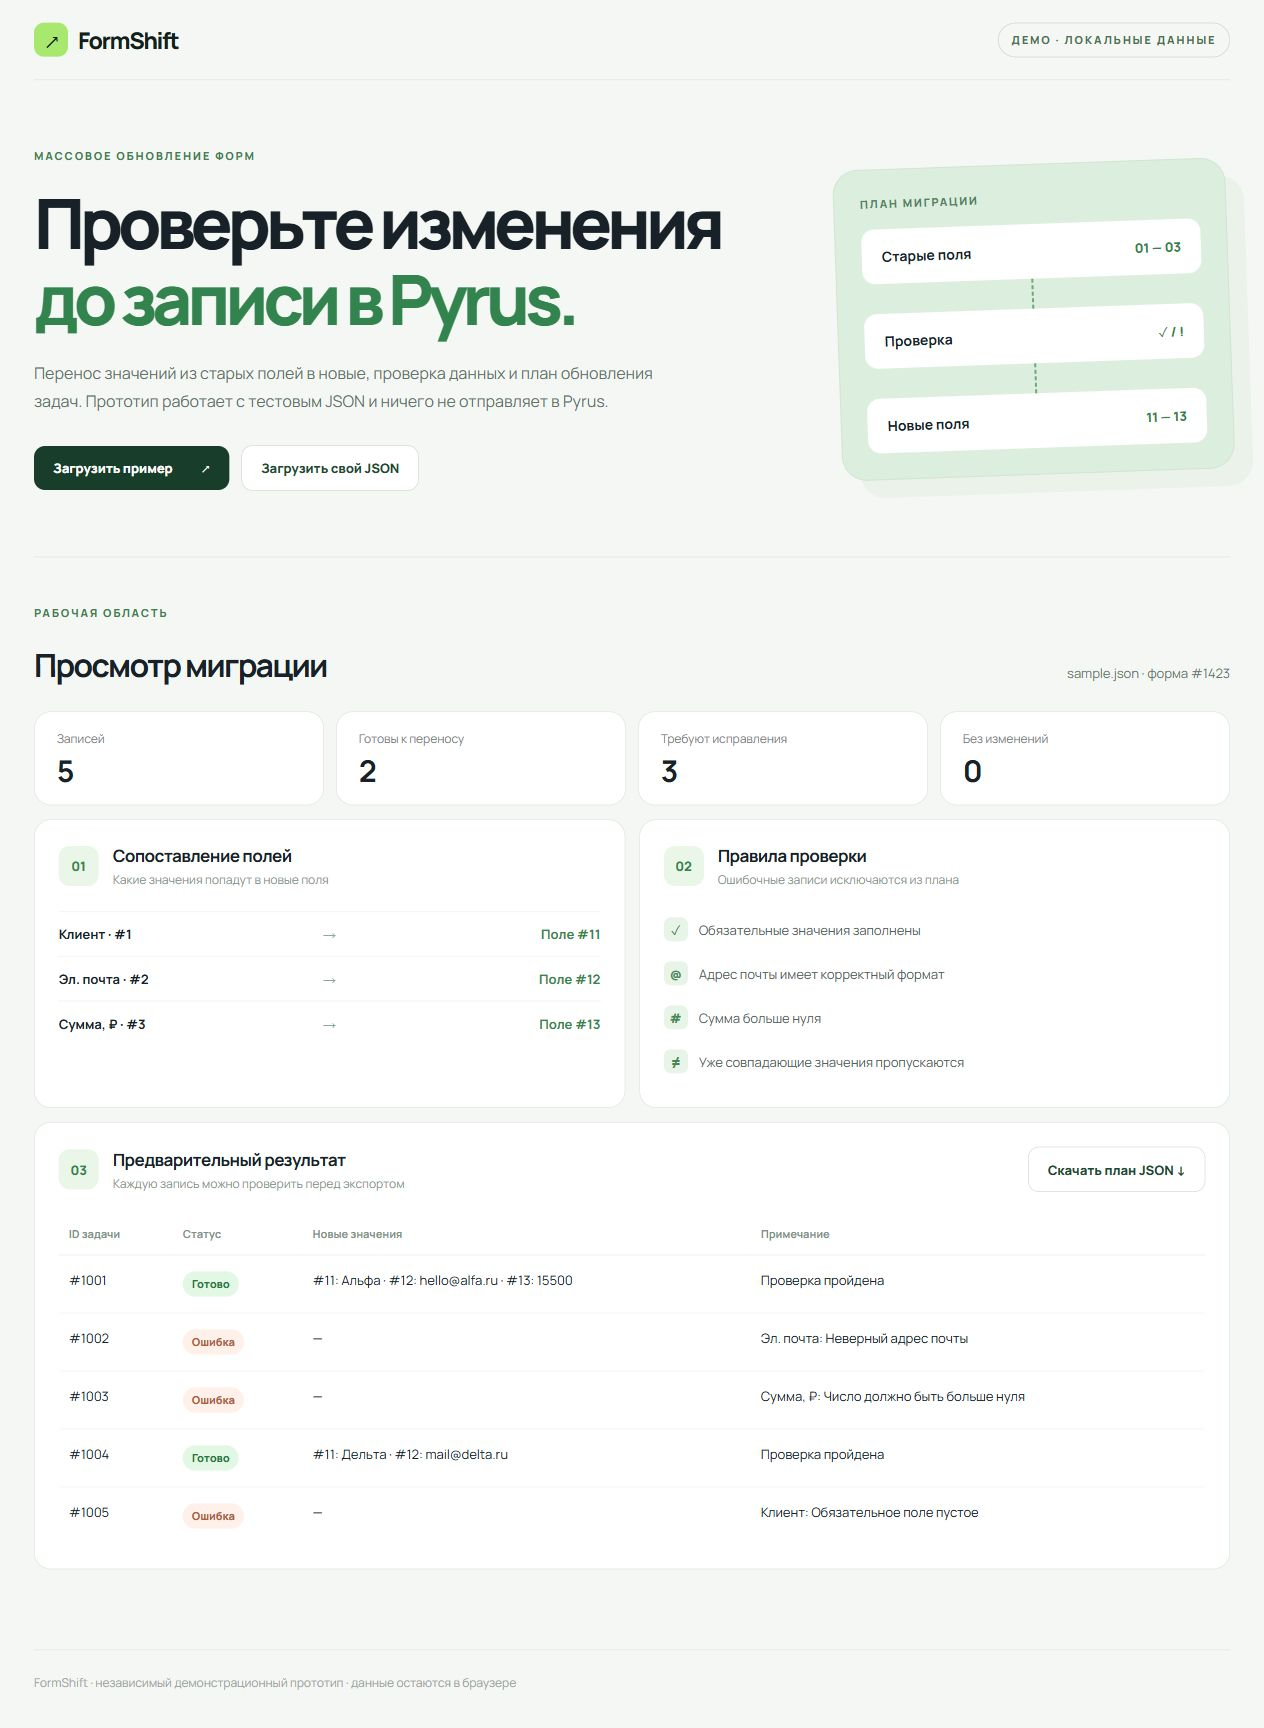
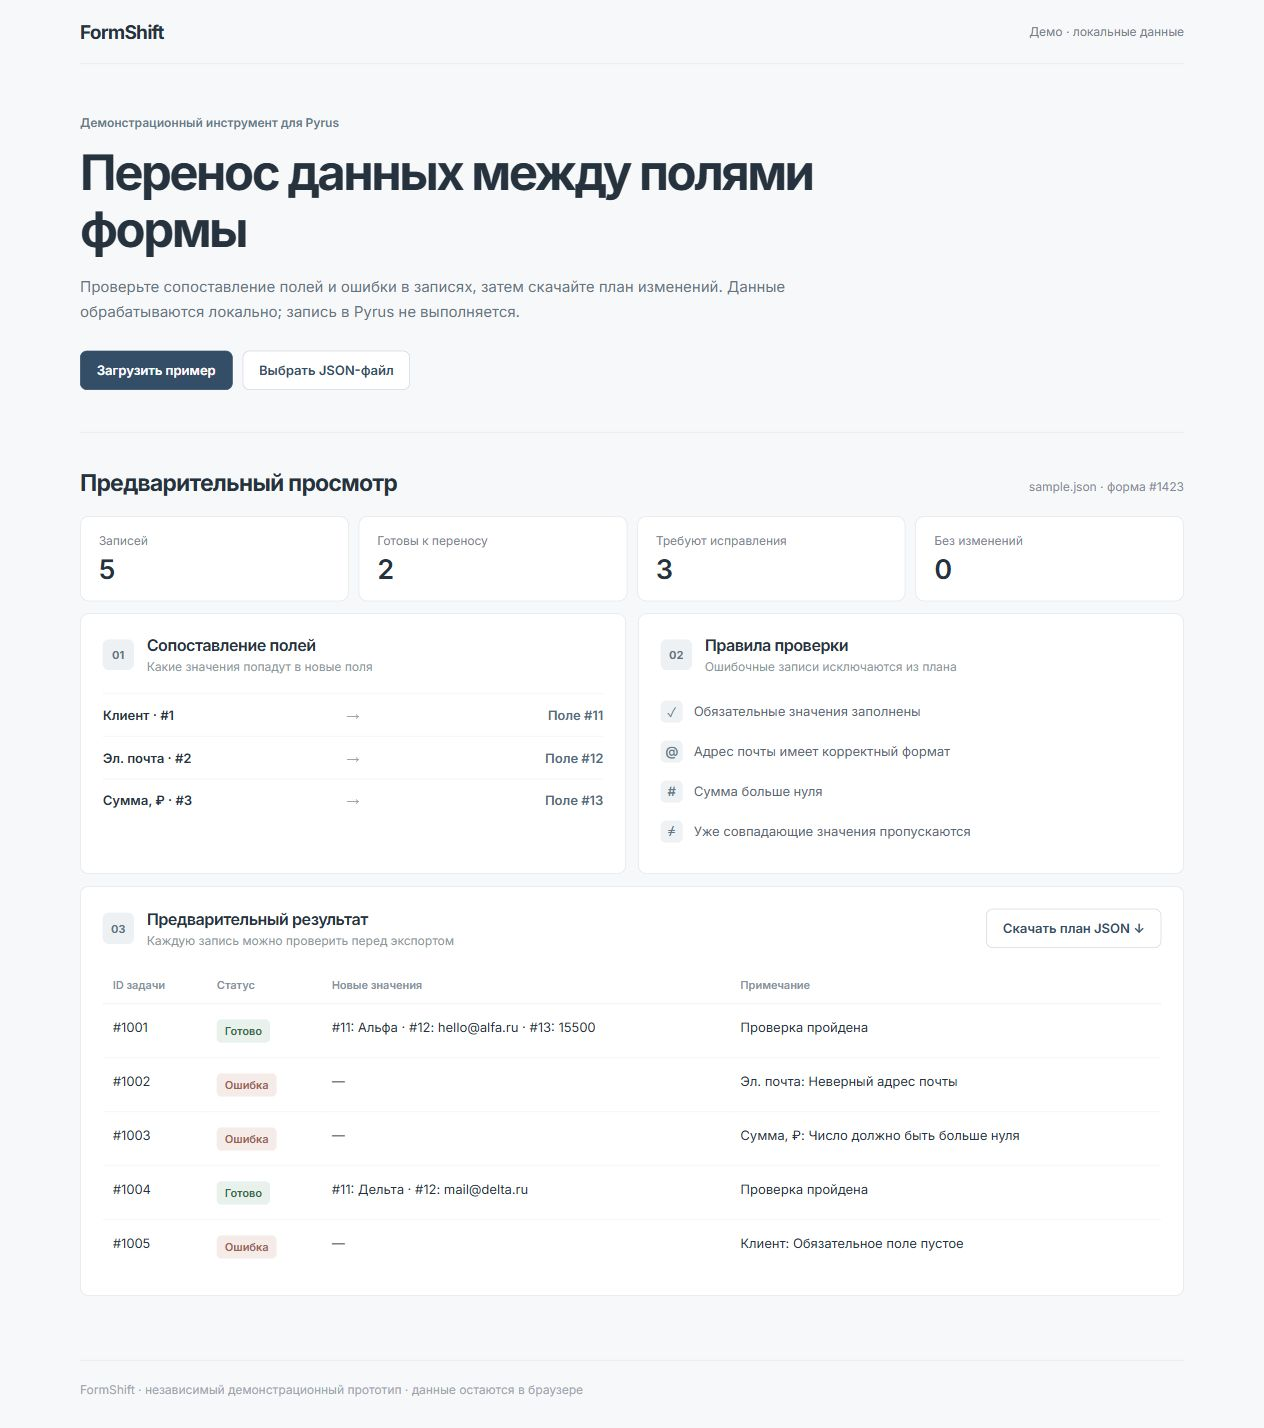
Simplify visual design and refresh screenshot

diff --git a/styles.css b/styles.css
@@ -1,2 +1,34 @@
-@import url('https://fonts.googleapis.com/css2?family=Manrope:wght@400;500;600;700;800&display=swap');
-:root{font-family:Manrope,Arial,sans-serif;color:#172127;background:#f4f7f4;font-synthesis:none}*{box-sizing:border-box}body{margin:0}button,input{font:inherit}button{cursor:pointer}.shell{max-width:1260px;margin:auto;padding:0 32px}.topbar{height:80px;display:flex;align-items:center;justify-content:space-between;border-bottom:1px solid #dce5dc}.brand{text-decoration:none;color:#14201c;font-weight:800;font-size:23px;letter-spacing:-.06em;display:flex;gap:10px;align-items:center}.brand-icon{display:grid;place-items:center;width:34px;height:34px;background:#a8e86f;border-radius:10px;font-size:22px}.top-tag,.eyebrow{font-size:11px;font-weight:800;letter-spacing:.17em}.top-tag{color:#4c7150;border:1px solid #c8d7ca;border-radius:99px;padding:9px 13px}.eyebrow{color:#447e50;margin:0 0 22px}.hero{padding:68px 0 66px;display:grid;grid-template-columns:1.4fr .75fr;gap:70px;align-items:center}.hero h1{font-size:clamp(42px,5.5vw,74px);line-height:1.08;letter-spacing:-.075em;margin:0 0 24px;font-weight:800}.hero h1 em{font-style:normal;color:#32834e}.lead{font-size:16px;line-height:1.75;color:#64726a;max-width:640px}.hero-actions{display:flex;align-items:center;gap:12px;margin-top:30px;flex-wrap:wrap}.primary,.upload,.secondary{border:0;border-radius:11px;padding:13px 19px;font-weight:800;font-size:13px}.primary{background:#193d2b;color:#fff;display:flex;gap:28px}.primary:hover{background:#286344}.upload,.secondary{color:#214932;background:#fff;border:1px solid #cfdbd1}.upload input{display:none}.secondary:disabled{opacity:.45;cursor:default}.hero-graphic{background:#dceedd;border:1px solid #c5dfc8;border-radius:25px;padding:26px;box-shadow:18px 18px 0 #eaf2e9;transform:rotate(-2deg)}.diagram-title{font-size:11px;letter-spacing:.16em;font-weight:800;color:#52845f;margin-bottom:18px}.diagram-row{display:flex;justify-content:space-between;align-items:center;background:#fff;border-radius:13px;padding:18px 20px;font-size:14px;font-weight:700}.diagram-row b{font-size:13px;color:#35834a}.diagram-line{height:30px;display:grid;place-items:center}.diagram-line i{height:100%;border-left:2px dashed #6da879}.workspace{border-top:1px solid #dce5dc;padding:48px 0 80px}.section-heading,.results-head{display:flex;align-items:end;justify-content:space-between;gap:20px}.section-heading h2{font-size:32px;letter-spacing:-.055em;margin:0 0 25px}.source-name{font-size:13px;color:#68796c;margin-bottom:29px}.stat-grid{display:grid;grid-template-columns:repeat(4,1fr);gap:12px;margin-bottom:14px}.stat,.card{background:#fff;border:1px solid #dce5dc;border-radius:17px}.stat{padding:19px 22px;display:flex;flex-direction:column;gap:9px}.stat span{font-size:12px;color:#76847b}.stat strong{font-size:30px;line-height:1;letter-spacing:-.04em}.two-col{display:grid;grid-template-columns:1fr 1fr;gap:14px}.card{padding:24px}.card-head{display:flex;align-items:center;gap:14px}.step{width:40px;height:40px;border-radius:11px;background:#e9f6e8;color:#34854a;display:grid;place-items:center;font-size:13px;font-weight:800}.card h3{font-size:17px;letter-spacing:-.03em;margin:0 0 4px}.card-head p{font-size:12px;color:#8a968c;margin:0}.mapping{margin-top:24px}.map-row{display:grid;grid-template-columns:1fr auto 1fr;align-items:center;gap:10px;border-top:1px solid #edf0ea;padding:13px 0;font-size:13px}.map-row b{font-weight:700}.map-row span:last-child{text-align:right;color:#36854b;font-weight:700}.map-row i{font-style:normal;color:#92a797}.rules{margin-top:20px}.rules div{display:flex;gap:11px;align-items:center;padding:10px 0;font-size:13px;color:#52645a}.rule-icon{width:24px;height:24px;flex:none;border-radius:7px;background:#e8f4e8;color:#448854;display:grid;place-items:center;font-weight:800}.results{margin-top:14px}.results-head{align-items:center;margin-bottom:21px}.table-wrap{overflow-x:auto}table{width:100%;border-collapse:collapse;text-align:left;font-size:13px}th{color:#819186;font-weight:700;font-size:11px;padding:13px 10px;border-bottom:1px solid #e6ece6}td{padding:16px 10px;border-bottom:1px solid #edf1ed;vertical-align:top}tr:last-child td{border:0}.pill{display:inline-block;border-radius:99px;padding:5px 9px;font-size:11px;font-weight:800}.pill.ready{background:#e3f7e5;color:#287742}.pill.error{background:#fff0e9;color:#ab6042}.pill.unchanged{background:#eaf0ed;color:#6f8174}.muted{color:#8d9b91}.empty{color:#9caaa0;text-align:center;padding:26px!important;font-size:13px}footer{border-top:1px solid #dce5dc;padding:24px 0 36px;font-size:12px;color:#9aa69e}@media(max-width:800px){.shell{padding:0 18px}.hero{grid-template-columns:1fr;padding:45px 0;gap:42px}.hero-graphic{max-width:480px}.two-col{grid-template-columns:1fr}.stat-grid{grid-template-columns:repeat(2,1fr)}.top-tag{font-size:9px}.section-heading h2{font-size:26px}.results-head{align-items:flex-start;flex-direction:column}}
+@import url('https://fonts.googleapis.com/css2?family=Inter:wght@400;500;600;700&display=swap');
+:root{font-family:Inter,Arial,sans-serif;color:#26323d;background:#f7f8fa;font-synthesis:none}
+*{box-sizing:border-box}body{margin:0}button,input{font:inherit}button{cursor:pointer}
+.shell{max-width:1160px;margin:auto;padding:0 28px}
+.topbar{height:64px;display:flex;align-items:center;justify-content:space-between;border-bottom:1px solid #e2e6ea}
+.brand{text-decoration:none;color:#26323d;font-weight:700;font-size:19px;letter-spacing:-.04em}.top-tag{font-size:12px;color:#74808b}
+.eyebrow{font-size:12px;font-weight:600;color:#66798b;margin:0 0 14px}
+.hero{padding:52px 0 42px;border-bottom:1px solid #e2e6ea}
+.hero h1{font-size:clamp(32px,4vw,49px);line-height:1.16;letter-spacing:-.05em;max-width:780px;margin:0 0 16px;font-weight:700}
+.lead{font-size:15px;line-height:1.7;color:#67747f;max-width:780px;margin:0}
+.hero-actions{display:flex;align-items:center;gap:10px;margin-top:26px;flex-wrap:wrap}
+.primary,.upload,.secondary{border-radius:7px;padding:11px 16px;font-weight:600;font-size:13px}
+.primary{background:#344e68;color:#fff;border:1px solid #344e68}.primary:hover{background:#273f57}
+.upload,.secondary{color:#344e68;background:#fff;border:1px solid #cdd5dd}.upload:hover,.secondary:not(:disabled):hover{background:#f0f4f7}
+.upload input{display:none}.secondary:disabled{opacity:.45;cursor:default}
+.workspace{padding:36px 0 64px}.section-heading,.results-head{display:flex;align-items:end;justify-content:space-between;gap:20px}
+.section-heading h2{font-size:23px;letter-spacing:-.035em;margin:0 0 20px}.source-name{font-size:12px;color:#7f8b96;margin-bottom:23px}
+.stat-grid{display:grid;grid-template-columns:repeat(4,1fr);gap:10px;margin-bottom:12px}
+.stat,.card{background:#fff;border:1px solid #e0e5e9;border-radius:9px}.stat{padding:17px 18px;display:flex;flex-direction:column;gap:9px}
+.stat span{font-size:12px;color:#788590}.stat strong{font-size:27px;line-height:1;font-weight:600}
+.two-col{display:grid;grid-template-columns:1fr 1fr;gap:12px}.card{padding:22px}.card-head{display:flex;align-items:center;gap:13px}
+.step{width:31px;height:31px;flex:none;border-radius:6px;background:#eef1f4;color:#617485;display:grid;place-items:center;font-size:11px;font-weight:700}
+.card h3{font-size:16px;letter-spacing:-.025em;margin:0 0 4px;font-weight:600}.card-head p{font-size:12px;color:#8b96a0;margin:0}
+.mapping{margin-top:20px}.map-row{display:grid;grid-template-columns:1fr auto 1fr;align-items:center;gap:10px;border-top:1px solid #edf0f2;padding:13px 0;font-size:13px}
+.map-row b{font-weight:600}.map-row span:last-child{text-align:right;color:#536b80;font-weight:600}.map-row i{font-style:normal;color:#9aa6ae}
+.rules{margin-top:18px}.rules div{display:flex;gap:11px;align-items:center;padding:9px 0;font-size:13px;color:#586773}
+.rule-icon{width:22px;height:22px;flex:none;border-radius:5px;background:#eff2f4;color:#65788a;display:grid;place-items:center;font-weight:600}
+.results{margin-top:12px}.results-head{align-items:center;margin-bottom:18px}.table-wrap{overflow-x:auto}
+table{width:100%;border-collapse:collapse;text-align:left;font-size:13px}th{color:#87929c;font-weight:600;font-size:11px;padding:12px 10px;border-bottom:1px solid #e8ecef}
+td{padding:15px 10px;border-bottom:1px solid #eef0f2;vertical-align:top}tr:last-child td{border:0}
+.pill{display:inline-block;border-radius:5px;padding:5px 8px;font-size:11px;font-weight:600}.pill.ready{background:#e8f1eb;color:#366a4b}.pill.error{background:#f5ece9;color:#9a6252}.pill.unchanged{background:#eef0f2;color:#65717b}
+.muted{color:#8d9b91}.empty{color:#9caaa0;text-align:center;padding:26px!important;font-size:13px}
+footer{border-top:1px solid #e2e6ea;padding:22px 0 32px;font-size:12px;color:#9aa5ae}
+@media(max-width:800px){.shell{padding:0 18px}.hero{padding:38px 0 34px}.two-col{grid-template-columns:1fr}.stat-grid{grid-template-columns:repeat(2,1fr)}.top-tag{font-size:10px}.results-head{align-items:flex-start;flex-direction:column}}

diff --git a/index.html b/index.html
@@ -8,14 +8,16 @@
 </head>
 <body>
   <div class="shell">
-    <header class="topbar"><a class="brand" href="#top"><span class="brand-icon">↗</span> FormShift</a><span class="top-tag">ДЕМО · ЛОКАЛЬНЫЕ ДАННЫЕ</span></header>
+    <header class="topbar"><a class="brand" href="#top">FormShift</a><span class="top-tag">Демо · локальные данные</span></header>
     <main id="top">
       <section class="hero">
-        <div><p class="eyebrow">МАССОВОЕ ОБНОВЛЕНИЕ ФОРМ</p><h1>Проверьте изменения<br><em>до записи в Pyrus.</em></h1><p class="lead">Перенос значений из старых полей в новые, проверка данных и план обновления задач. Прототип работает с тестовым JSON и ничего не отправляет в Pyrus.</p><div class="hero-actions"><button id="load-demo" class="primary">Загрузить пример <span>↗</span></button><label class="upload">Загрузить свой JSON <input id="file-input" type="file" accept=".json,application/json"></label></div></div>
-        <div class="hero-graphic" aria-hidden="true"><div class="diagram-title">ПЛАН МИГРАЦИИ</div><div class="diagram-row"><span>Старые поля</span><b>01 — 03</b></div><div class="diagram-line"><i></i></div><div class="diagram-row"><span>Проверка</span><b>✓ / !</b></div><div class="diagram-line"><i></i></div><div class="diagram-row"><span>Новые поля</span><b>11 — 13</b></div></div>
+        <p class="eyebrow">Демонстрационный инструмент для Pyrus</p>
+        <h1>Перенос данных между полями формы</h1>
+        <p class="lead">Проверьте сопоставление полей и ошибки в записях, затем скачайте план изменений. Данные обрабатываются локально; запись в Pyrus не выполняется.</p>
+        <div class="hero-actions"><button id="load-demo" class="primary">Загрузить пример</button><label class="upload">Выбрать JSON-файл <input id="file-input" type="file" accept=".json,application/json"></label></div>
       </section>
       <section class="workspace">
-        <div class="section-heading"><div><p class="eyebrow">РАБОЧАЯ ОБЛАСТЬ</p><h2>Просмотр миграции</h2></div><span id="file-name" class="source-name">Пример не загружен</span></div>
+        <div class="section-heading"><h2>Предварительный просмотр</h2><span id="file-name" class="source-name">Пример не загружен</span></div>
         <div class="stat-grid"><div class="stat"><span>Записей</span><strong id="total">—</strong></div><div class="stat"><span>Готовы к переносу</span><strong id="ready">—</strong></div><div class="stat"><span>Требуют исправления</span><strong id="errors">—</strong></div><div class="stat"><span>Без изменений</span><strong id="unchanged">—</strong></div></div>
         <div class="two-col"><section class="card"><div class="card-head"><span class="step">01</span><div><h3>Сопоставление полей</h3><p>Какие значения попадут в новые поля</p></div></div><div id="mapping" class="mapping"><p class="empty">Загрузите пример, чтобы увидеть сопоставление.</p></div></section><section class="card"><div class="card-head"><span class="step">02</span><div><h3>Правила проверки</h3><p>Ошибочные записи исключаются из плана</p></div></div><div class="rules"><div><span class="rule-icon">✓</span> Обязательные значения заполнены</div><div><span class="rule-icon">@</span> Адрес почты имеет корректный формат</div><div><span class="rule-icon">#</span> Сумма больше нуля</div><div><span class="rule-icon">≠</span> Уже совпадающие значения пропускаются</div></div></section></div>
         <section class="card results"><div class="results-head"><div><div class="card-head"><span class="step">03</span><div><h3>Предварительный результат</h3><p>Каждую запись можно проверить перед экспортом</p></div></div></div><button id="download" class="secondary" disabled>Скачать план JSON ↓</button></div><div class="table-wrap"><table><thead><tr><th>ID задачи</th><th>Статус</th><th>Новые значения</th><th>Примечание</th></tr></thead><tbody id="rows"><tr><td colspan="4" class="empty">Загрузите пример, чтобы увидеть результат.</td></tr></tbody></table></div></section>
